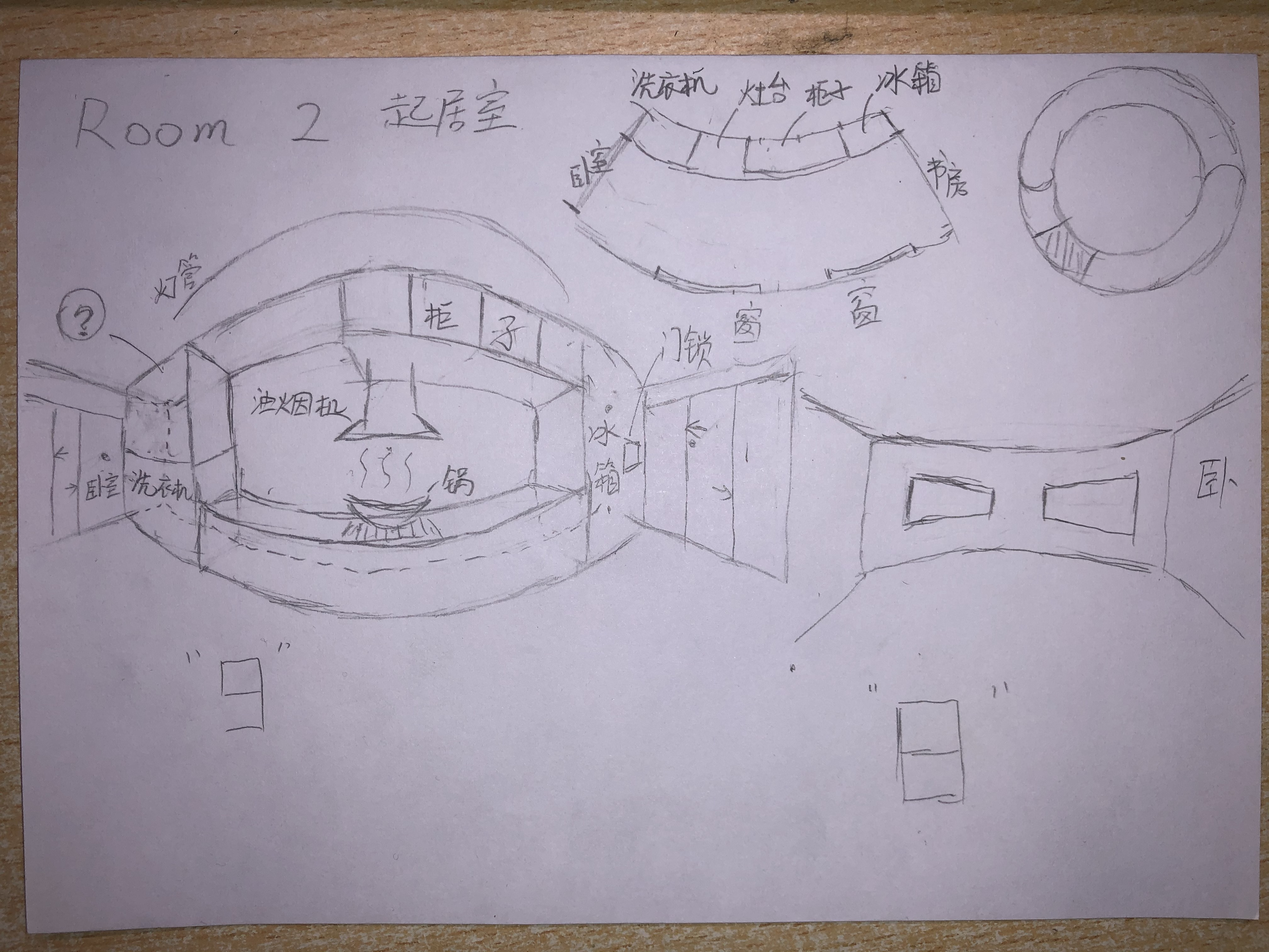
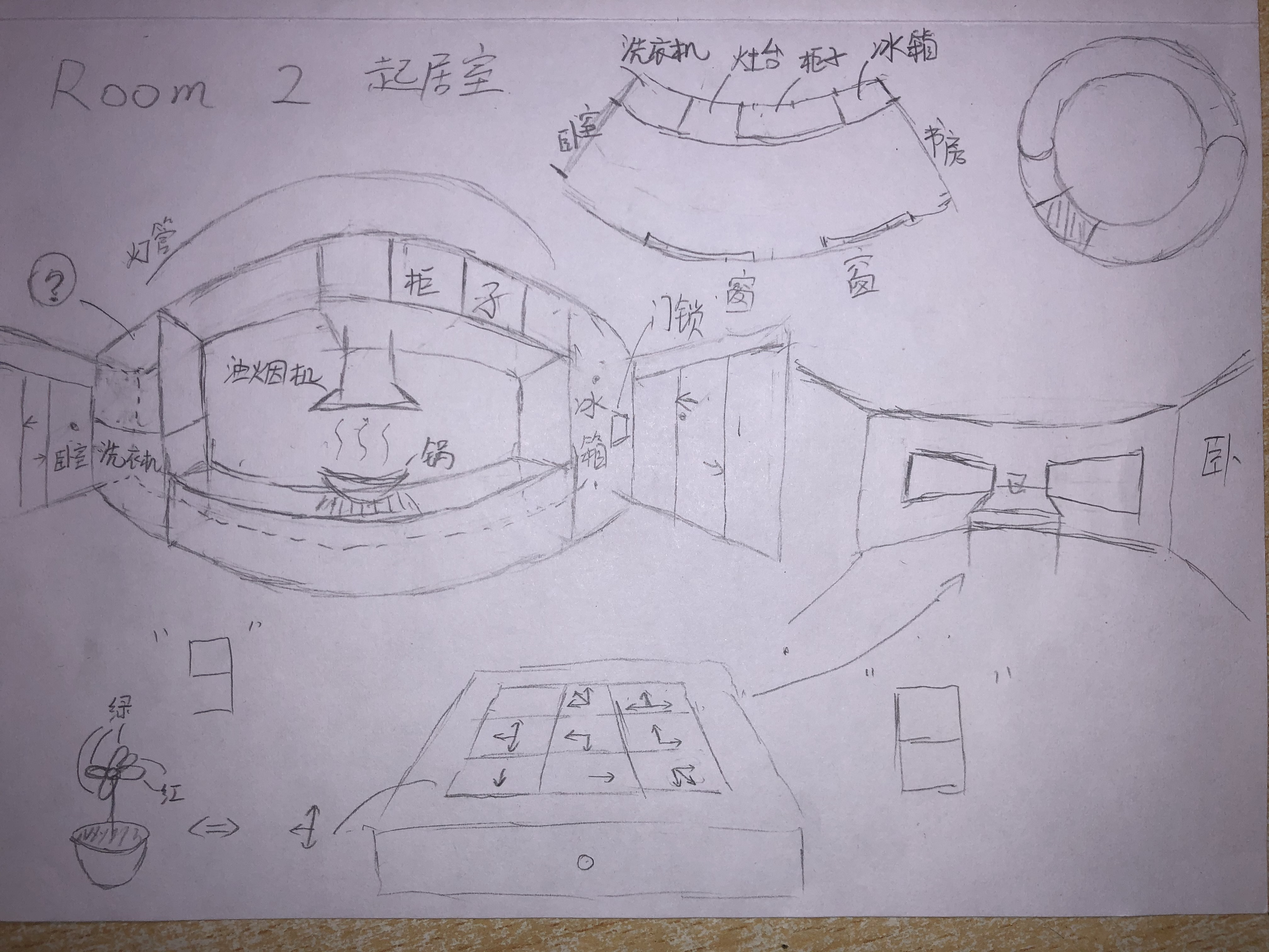
Update Design of Part 1

diff --git a/Documents/Design Book.md b/Documents/Design Book.md
@@ -16,65 +16,125 @@
 
 收集品1 —— “好眼力”
 
-1-1 ：门锁：枚举法解题
+|  编号   | 位置  |       作用        |     名字      |
+| :-----: | :---: | :---------------: | :-----------: |
+|   1-1   | Room1 |  打开Room1-2门锁  |    枚举法     |
+|   1-2   | Room2 |  打开Room2-3门锁  |   家具形状    |
+|   1-3   | Room3 | 在Room3解锁Phase2 |   吊灯透视    |
+|   1-4   | Room3 | 在Room3解锁Phase2 | 高度决定眼界I |
+| 收集品1 | Room1 |      收集品       |    好眼力     |
+
+1-1 ：枚举法
 
 一位数密码，可以让玩家试出来，也可以让玩家无论输入什么都能打开
 
-1-2 ：物体形状
+1-2 ：家具形状
 
 进入Room2后，发现左边的物品呈现"9"字，右边的物品呈现"8"字，门锁密码为"98"
 
-门锁上最好呈现一个方向，不然反过来看也可以解读为"86"
+门锁上最好呈现一个方向（例如画一个箭头），不然反过来看也可以解读为"86"
 
-1-3 ：头顶吊灯透视
+1-3 ：吊灯透视
 
 进入Room3后，回头看发现天花板的灯管连在一起是一个"48"
 
-1-4 ：藏在桌子底下的数字 —— 站得高，看得远 / 高度决定视角 
+1-4 ：高度决定眼界I
+
+只有蹲下才能看到底下有块板子，在Phase1可以看见它是"97"
+
+将4897输入之后，Phase1的灯会亮，随后视角变为256色灰度图视角
+
+收集品1：“好眼力”
+
+在Room1X处可以发现藏在衣柜后面的收集品
 
 #### Phase 2 (6min, Difficulty : 3)
 
+|  编号   |  位置   |                作用                 |      名字      |
+| :-----: | :-----: | :---------------------------------: | :------------: |
+|   2-1   | Room1&2 | 关掉Room1-3的灯光，以看见电视机反光 |    整理衣服    |
+|   2-2   |  Room3  |          在Room3解锁Phase2          |   电视机反光   |
+|   2-3   |  Room3  |          在Room3解锁Phase2          | 高度决定眼界II |
+| 收集品2 |  Room3  |               收集品                |     强迫症     |
+
 黑白视角(256色灰度图)
 
-2-1 ：将洗好的衣服放进衣柜 
+2-1 ：整理衣服
+
+Phase1灯亮后，洗衣机的提示响了，随后可以打开洗衣机，将衣服按照从小到大的顺序装进衣柜中，装完之后播放BGM
 
 2-2 ：电视机反光
 
-2-3 ：重新观察头顶吊灯透视 、重新观察藏在桌子底下的数字
+装完衣柜后BGM响起，灯全部关上，此时能通过反光看见电视机上的数字，这是解锁Phase2的第一个密码
 
-2-4 ：转译文字
+2-3 ：高度决定眼界II
 
-收集品2 ：将地上的书整理到书架上（需要用到卧室里的线索） “强迫症”
+重新观察Room3桌子底下的板子，在Phase2可以看见它是"51"（上面涂了不同的颜色，颜色深浅不一样）
+
+收集品2 ：“强迫症”
+
+仔细观察发现这种语言是一种奇特的拼音文字，每个字都有偏旁部首组成，在Room1键盘上可以发现对应的组成部分，然后通过比较Room3中书本的顺序可以得出每本书应该在的位置
 
 #### Phase 3 (8min, Difficulty : 4)
 
-3-1：重新观察藏在桌子底下的数字
+|  编号   |  位置   |              作用               |     名字     |
+| :-----: | :-----: | :-----------------------------: | :----------: |
+|   3-1   |  Room3  |         打开Room3-4门锁         |   转译文字   |
+|   3-2   | Room1&3 |         打开谜题3-3的灯         |   寻找颜色   |
+|   3-3   |  Room4  |       查询谜题3-4所在城市       |     光影     |
+|   3-4   |  Room4  |        找到对应的街区号         |  象棋的隐喻  |
+|   3-5   |  Room4  |        找到对应的楼栋号         | 环境影响认知 |
+|   3-6   |  Room2  |         找到3-7中的线索         |     花盆     |
+|   3-7   |  Room4  | 找到对应楼层号，打开Room4-5门锁 |   基本算数   |
+| 收集品3 |  Room4  |             收集品              |    双刃剑    |
 
-3-2：寻找应打开的灯的开关的颜色
+3-1 ：转译文字
 
-3-3：看到特定的颜色影子反光（开启正确的灯才能显示）
+打开电视机后上面写了一串文字（Phase1&2看不见电源），需要用Room1打开电脑后的搜索功能得出
 
-收集品2 —— 切换成黑白模式，再打开特定光束，可以获得一块拼图
+3-2：寻找颜色
 
-“双刃剑 ：它可以帮你，也可以摧毁你”
+进门后出现一排开关，需要打开与Room1灯管上、Room3板子上、电视上出现过的所有颜色的灯
 
-3-4：区号 —— 国际象棋棋盘 —— “生活中充满了隐喻”
+3-3：光影
 
-3-5：楼栋号 —— “环境影响认知”.
+能看到影子呈现某个数字，代表目的地所在城市，输入智能屏幕查看对应城市的地图
 
-物品：8进制的考卷
+3-4：象棋的隐喻
 
-3-6：楼层号 —— 用8进制表示 —— “经验影响认知”
+仔细发现正确的地图上有个长得像国际象棋里王后的建筑，对应的坐标是D1，因此需要寻找的建筑物的街区号便可以知道
+
+3-5：环境影响认知
+
+包含博物馆的建筑物顶上写着"BLOCK B"，实际上是"BLOCK 13"，仔细看地图的其他部分能发现BLOCK1-BLOCK12
+
+3-6：花盆
+
+将花盆移动到合适的位置，可以打开抽屉，抽屉里有一张16进制的考卷，暗示这个世界数字采用16进制
+
+3-7：基本算数
+
+能数出来楼层在某一层，将城市号，街区号，楼栋号，楼层号输入传送门，大门打开
+
+收集品3 ：“双刃剑”
+
+在3-3中将图像切换成黑白模式，再打开特定光束，可以获得一块拼图
 
 ### Part 2 听觉
 
+#### Phase 4 (3min, Difficulty : 2)
 
+4-1 根据音乐辨识位置
+
+4-2 根据音高弹出对应的音符
+
+4-3 
 
 ### Part 3 空间感
 
 房间构造本身亦是密码
 
-
+穿墙bug
 
 ## 地图设计
 
@@ -86,7 +146,7 @@
 
 置物架：无关谜题，上面可以摆点生活气息物件
 
-电脑桌：键盘和谜题有关（谜题2-4、收集品2），在Phase1，由于电脑桌和电脑都是深色的，因此和墙壁融为一体，看不见
+电脑桌：键盘和谜题有关（谜题3-1、收集品2），在Phase1，由于电脑桌和电脑都是深色的，因此和墙壁融为一体，Phase1看不见，Phase2看不见电源
 
 衣柜：打开后里面有些许衣服
 
@@ -96,13 +156,13 @@
 
 床和枕头：与谜题无关
 
-灯管：颜色和位置与后面的谜题有关（谜题2-3、3-1）
+灯管：颜色和位置与后面的谜题有关（谜题1-3、3-2）
 
 <img src="..\Photos\Room1_Draft.jpg" style="zoom:50%;" />
 
 ### Room 2 起居室
 
-灯管：和谜题2-3、3-1有关
+灯管：和谜题1-3有关
 
 卧室门：从卧室过来后一直保持开启状态
 
@@ -120,5 +180,18 @@
 
 窗户：在Phase1，只能看到一片白色，Phase2开始可以看见太阳、外面的草坪和树（与后面的谜题有关）
 
+下方图：解释谜题3-6，每朵花有红色和绿色的叶子，当移动花盆至绿色叶子都可以相连时，抽屉打开
+
 ![](..\Photos\Room2_Draft.jpg)
 
+### Room 3 书房
+
+![](../Photos/Room3_Draft.jpg)
+
+
+
+### Room 4 大厅
+
+右下角图：解释谜题1-3的大致形态
+
+![](../Photos/Room4_Draft.jpg)
